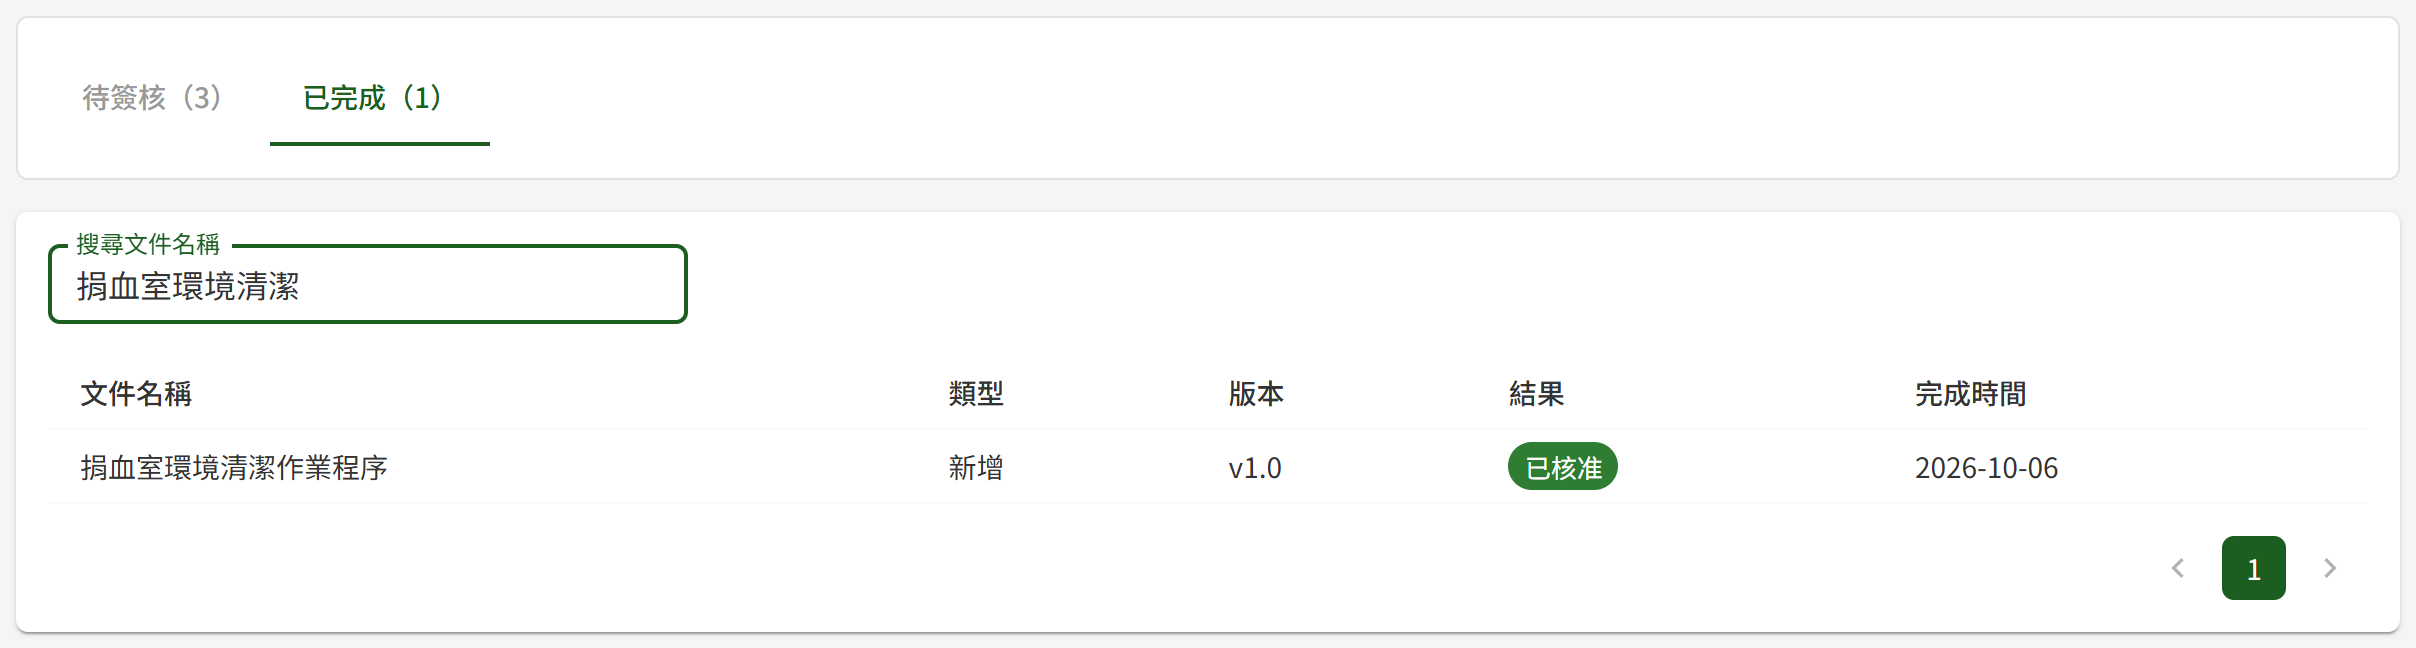
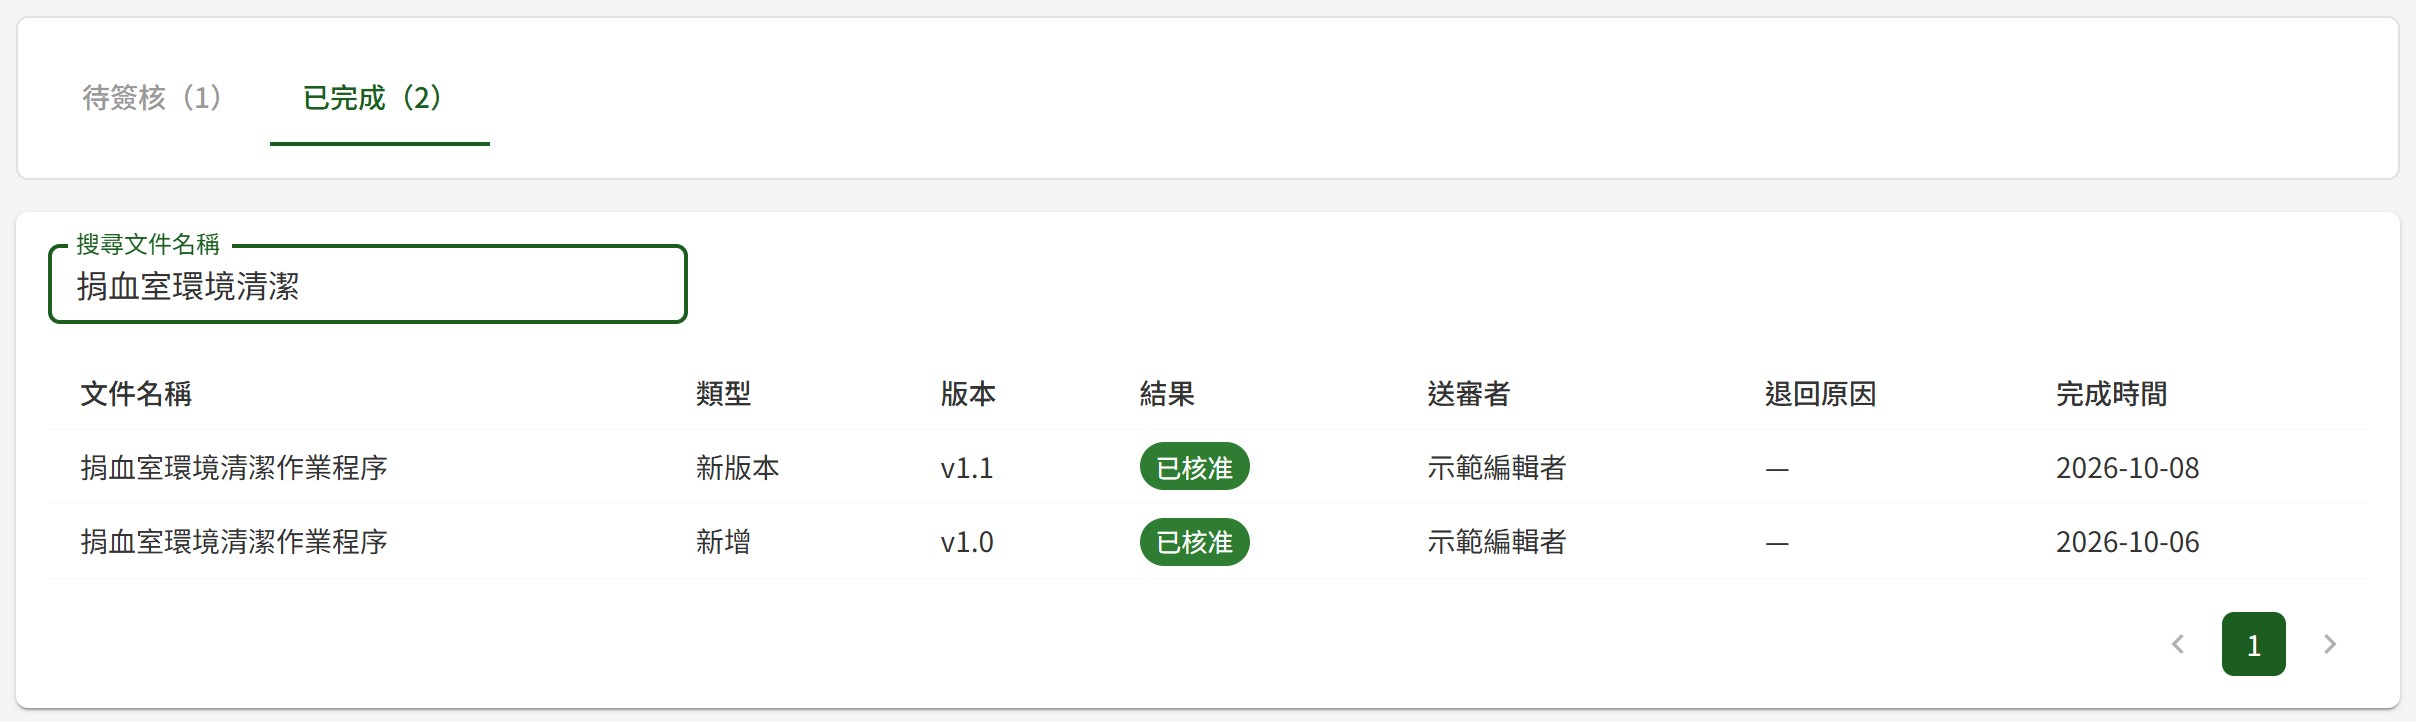
docs(dm): DM 手冊依 10/05 後合併的程式改動修正，重拍 dm02-07、dm03-02
- DM02：發布／退回／廢止通知撰寫者改為 DM04 站內呈現；催辦改以 Email 寄出；「已完成」補送審者與退回原因
- DM04：草稿匣僅編輯者可見；退回原因改為獨立欄位；寄 Email 的通知補簽核催辦
- DM01：關聯作業項目補本系統 EDMS- 開頭代碼說明
- DM03：重拍唯讀頁（提示列與版本歷程說明文字已更新）
- 測試項目同步並重產 DM 測試報告

DM02 核准訊息待 #677、DM04 兩張截圖與廢止退回原因待 #679 合併後再改。

diff --git a/docs/manuals/_tests/DM-文件管理模組.md b/docs/manuals/_tests/DM-文件管理模組.md
@@ -97,7 +97,7 @@
 | 1 | 以審核者甲進入簽核中心，「待簽核」應只列出指定審核者為本人之送審，指派給審核者乙之項目不應出現。 |
 | 2 | 編輯者甲於個人專區撤回一筆送審後，審核者甲重新進入簽核中心，該項目應已自「待簽核」消失，且不列於「已完成」。 |
 | 3 | 管理者將催辦門檻調為 1 天後，送審已滿 24 小時之項目，其停留天數應以紅字加警示符號標示；未滿 24 小時者不標示。 |
-| 4 | 承上，每日催辦排程執行後（或請 IT 手動觸發），審核者甲應收到該項目之催辦通知。 |
+| 4 | 承上，每日催辦排程執行後（或請 IT 手動觸發），審核者甲應收到該項目之催辦 Email，信中含文件名稱與停留天數。 |
 | 5 | 點文件 P 之列，下方應展開簽核明細，顯示可見對象「國防部軍醫局＋護理師」、檢索標籤與首版摘要，按「下載」可取得送審檔案。 |
 | 6 | 點文件 R 之列（新版本），檔案區應並列目前發布版與待審新版，兩者皆可下載。 |
 | 7 | 點文件 T 之列（廢止），變更摘要應顯示申請人填寫之廢止原因，且可「下載廢止附件」。 |
@@ -106,10 +106,10 @@
 | 10 | 承上，閱覽者甲應收到文件 P 之發布通知且於文件庫查得到文件 P；閱覽者乙應收不到通知、亦查不到文件 P。 |
 | 11 | 核准文件 R 之新版本前，文件庫應仍為原發布版；核准後文件庫之發布日期更新為新版本，文件詳細頁之版本歷程中原版本標示為「已被取代」。 |
 | 12 | 對文件 T 按「核准並廢止」並「確認廢止」，文件 T 應自文件庫下架，編輯者甲之「我的文件動態」應出現「已廢止」列（站內呈現，不寄 Email），且不寄出文件發布通知；文件變更歷程查詢應留有其廢止紀錄。 |
-| 13 | 對文件 Q 按「退回」，填寫退回原因後按「確認退回」，該項目應標示為已退回並移至「已完成」，文件 Q 回到編輯者甲個人專區之草稿；編輯者甲之「我的文件動態」應出現「已退回」列（站內呈現，不寄 Email），其下方顯示剛才填寫的退回原因，按展開箭頭可看到全文。 |
+| 13 | 對文件 Q 按「退回」，填寫退回原因後按「確認退回」，該項目應標示為已退回並移至「已完成」，文件 Q 回到編輯者甲個人專區之草稿；編輯者甲之「我的文件動態」應出現「已退回」列（站內呈現，不寄 Email），該列「退回原因」欄顯示剛才填寫的退回原因全文。 |
 | 14 | 退回文件 S 之新版本後，文件庫中文件 S 應仍為原發布版，新版本回到編輯者甲之草稿。 |
 | 15 | 退回文件 U 之廢止申請後，文件 U 應仍為已發布並照常列於文件庫。 |
-| 16 | 切換至「已完成」，應列出本人核准與退回之項目及其結果；於「搜尋文件名稱」輸入文件 P 名稱之一段應篩出該筆，且項目上無核准或退回之操作。 |
+| 16 | 切換至「已完成」，應列出本人核准與退回之項目、結果與送審者；文件 Q 之退回列「退回原因」欄應為所填原因，文件 P 之核准列為「—」；於「搜尋文件名稱」輸入文件 P 名稱之一段應篩出該筆，且項目上無核准或退回之操作。 |
 | 17 | 審核者甲開啟某送審之簽核明細後，編輯者甲於另一分頁撤回該送審，審核者甲再按「核准並發布」應被擋下並提示已被撰寫者撤回，該項目自清單移除。 |
 | 18 | 兩份同作業項目之手冊送審中，核准其中一份後再核准另一份，應被擋下並提示該作業項目已有已發布手冊（未擋下將出現兩份手冊，依作業項目查詢結果不再唯一）。 |
 
@@ -152,7 +152,7 @@
 |---|---|
 | 編輯者甲 | 具編輯者角色、不兼審核者，下列文件皆由此帳號建立與送審 |
 | 雙角色帳號 | 同時具編輯者與審核者角色之帳號，近 30 天內本人送審過、也被指派審核過至少各一筆（第 1 項） |
-| 審核者甲、審核者乙 | 具審核者角色。審核者乙用於帳號停用（第 4 項）與改選審核者（第 8 項） |
+| 審核者甲、審核者乙 | 僅具審核者角色（不兼編輯者）。審核者甲用於第 1-1 項；審核者乙用於帳號停用（第 4 項）與改選審核者（第 8 項） |
 | 管理者 | 將催辦門檻調為 1 天（第 3 項，測完請改回預設 7 天）；於 DP01 使用者管理停用審核者乙，第 4 項測完即重新啟用 |
 | 文件 A | 近 30 天內送審、經審核者甲核准發布（第 2 項） |
 | 文件 B | 指定審核者乙之送審，未處理（第 4 項） |
@@ -168,6 +168,7 @@
 | 項次 | 測試內容 |
 |---|---|
 | 1 | 以雙角色帳號進入個人專區，「我的文件動態」應同時出現「撰寫者視角（近 30 天）」與「審核者視角（近 30 天）」兩區。 |
+| 1-1 | 以審核者甲進入個人專區，應只有「我的文件動態」一個分頁，不出現「草稿匣」。 |
 | 2 | 以編輯者甲進入個人專區，文件 A 應呈現「送審」與「核准發布」兩列，時間分別為送審與核准時間，清單由新到舊排列。 |
 | 3 | 管理者將催辦門檻調為 1 天後，文件 C 於編輯者甲之撰寫者視角應標示「逾期未審」，於審核者甲之審核者視角應標示「催辦中」。 |
 | 4 | 管理者停用審核者乙後，編輯者甲之撰寫者視角中文件 B 的「指定審核者」欄下方應以紅字標示「審核者帳號已停用」。 |

diff --git a/docs/manuals/dm/DM02-簽核中心.md b/docs/manuals/dm/DM02-簽核中心.md
@@ -28,7 +28,7 @@
 
 畫面分為「待簽核」與「已完成」兩個分頁，分頁名稱後的括號為各自的筆數。進入時停在「待簽核」，列出待本人處理的項目；每列文件名稱下方標示送審類型（新增、新版本、廢止）。
 
-「停留天數」自送審時間起算，每滿 24 小時計 1 天，未滿 24 小時為 0 天。停留天數**達催辦門檻**時，該欄以紅字加警示符號標示，系統並每日向本人發出催辦通知，直到項目處理完畢或被撤回為止。催辦門檻由管理者於平台後台設定（見 DP03 系統參數與清單維護），預設為 7 天。
+「停留天數」自送審時間起算，每滿 24 小時計 1 天，未滿 24 小時為 0 天。停留天數**達催辦門檻**時，該欄以紅字加警示符號標示，系統並每日以 Email 向本人寄出催辦信，直到項目處理完畢或被撤回為止。催辦門檻由管理者於平台後台設定（見 DP03 系統參數與清單維護），預設為 7 天。
 
 ![進入簽核中心停在「待簽核」，列出指派給本人的送審，文件名稱下方標示送審類型](../_images/dm/dm02-01.png)
 
@@ -72,7 +72,8 @@
 
 - 文件轉為已發布，出現於文件庫；新版本則取代原發布版，原發布版於版本歷程中標示為已被取代
 - 本次送審的可見對象與檢索標籤生效
-- 以 Email 寄出文件發布通知，收件者為撰寫者，以及發布當下可見對象相符的閱覽者；可見對象為「全單位＋全體」時即為全部閱覽者。收件名單於核准當下決定
+- 以 Email 寄出文件發布通知給發布當下可見對象相符的閱覽者；可見對象為「全單位＋全體」時即為全部閱覽者。收件名單於核准當下決定
+- 撰寫者於 DM04 個人專區「我的文件動態」看到「核准發布」
 - 寫入文件變更歷程，供管理者於 DM05 文件變更歷程查詢
 
 該項目隨即自「待簽核」移至「已完成」。
@@ -84,7 +85,7 @@
 1. 於簽核明細按「核准並廢止」
 2. 確認視窗按「確認廢止」
 
-文件隨即轉為已廢止並自文件庫下架，系統通知撰寫者並寫入文件變更歷程。廢止後的文件由管理者於 DM03 已廢止文件查詢查閱，歷史版本永久保留。
+文件隨即轉為已廢止並自文件庫下架，撰寫者於 DM04 個人專區「我的文件動態」看到「已廢止」，並寫入文件變更歷程。廢止後的文件由管理者於 DM03 已廢止文件查詢查閱，歷史版本永久保留。
 
 > 重要：廢止核准後立即生效且不可回復，按「確認廢止」前請再次確認廢止對象。
 
@@ -98,13 +99,13 @@
 
 ![按「退回」後於視窗填寫退回原因，按「確認退回」送出](../_images/dm/dm02-06.png)
 
-系統通知撰寫者，項目移至「已完成」並標示為已退回。退回後文件的去向依送審類型而定，見〈使用情境〉之表。撰寫者修正後可重新送審，屆時為新的一筆送審項目。
+項目移至「已完成」並標示為已退回；撰寫者於 DM04 個人專區「我的文件動態」看到「已退回」，新增與新版本的退回並同時看到退回原因。退回後文件的去向依送審類型而定，見〈使用情境〉之表。撰寫者修正後可重新送審，屆時為新的一筆送審項目。
 
 ### 查看已完成的項目
 
-切換至「已完成」分頁，列出本人處理過的項目及其結果（已核准或已退回）與完成時間。可於「搜尋文件名稱」輸入名稱的一段文字篩選。
+切換至「已完成」分頁，列出本人處理過的項目、結果（已核准或已退回）、送審者、退回原因與完成時間。「退回原因」於新增與新版本被退回的項目顯示所填原因，其他項目顯示「—」。可於「搜尋文件名稱」輸入名稱的一段文字篩選。
 
-![切換至「已完成」並輸入文件名稱的一段文字，列出本人處理過的項目及其結果](../_images/dm/dm02-07.png)
+![切換至「已完成」並輸入文件名稱的一段文字，列出本人處理過的項目、結果與送審者；核准的項目「退回原因」顯示「—」](../_images/dm/dm02-07.png)
 
 已完成的項目僅供回顧。
 
@@ -125,7 +126,7 @@
 |---|---|
 | 「已核准並發布，已通知撰寫者」 | 文件已發布，發布通知已排入寄送 |
 | 「已核准廢止，文件已下架並通知撰寫者」 | 文件已廢止並自文件庫下架 |
-| 「已退回並通知撰寫者」 | 項目已退回，撰寫者會收到退回通知 |
+| 「已退回並通知撰寫者」 | 項目已退回，撰寫者於個人專區看到退回結果 |
 
 ### 其他情況
 

diff --git a/docs/manuals/dm/DM04-個人專區.md b/docs/manuals/dm/DM04-個人專區.md
@@ -4,12 +4,12 @@
 
 ### 使用情境
 
-本作業供具**編輯者或審核者**角色者集中處理本人的文件作業，分為「我的文件動態」與「草稿匣」兩個分頁。兩種角色可做的事如下：
+本作業供具**編輯者或審核者**角色者集中處理本人的文件作業，分為「我的文件動態」與「草稿匣」兩個分頁，「草稿匣」僅編輯者可見。兩種角色可做的事如下：
 
 | 角色 | 我的文件動態 | 草稿匣 |
 |---|---|---|
 | 編輯者 | 檢視本人送審的歷程；可撤回送審中的項目 | 續編或刪除本人的草稿 |
-| 審核者 | 檢視指派給本人的送審歷程；可前往簽核中心處理 | — |
+| 審核者 | 檢視指派給本人的送審歷程；可前往簽核中心處理 | 不顯示此分頁 |
 
 同時具兩種角色者，兩種歷程都會列出。
 
@@ -23,7 +23,7 @@
 
 ### 畫面與前置設定
 
-畫面自上而下為標題列、兩個分頁，其下為該分頁的清單。進入時預設停在「我的文件動態」。
+畫面自上而下為標題列、分頁（編輯者為兩個；僅具審核者角色者只有「我的文件動態」），其下為該分頁的清單。進入時預設停在「我的文件動態」。
 
 ### 我的文件動態
 
@@ -40,19 +40,17 @@
 | 狀態 | 代表什麼 |
 |---|---|
 | 送審中、廢止待簽核（撰寫者）<br>待處理、待處理（廢止）（審核者） | 送審尚未處理 |
-| 逾期未審、廢止逾期未審（撰寫者）<br>催辦中（審核者） | 送審停留天數已達催辦門檻，系統每日向審核者發出催辦通知。催辦門檻由管理者於 DP03 系統參數與清單維護設定，預設為 7 天 |
+| 逾期未審、廢止逾期未審（撰寫者）<br>催辦中（審核者） | 送審停留天數已達催辦門檻，系統每日以 Email 向審核者寄出催辦信。催辦門檻由管理者於 DP03 系統參數與清單維護設定，預設為 7 天 |
 | 送審、發起廢止 | 已結束的那次送審的起點列，結果見同一份文件時間較新的那一列 |
 | 核准發布、已廢止、已退回、已撤回（撰寫者）<br>已核准、已核准廢止、已退回、已被撤回（審核者） | 該次送審的結果 |
 
 **退回原因**
 
-狀態為「已退回」的列，狀態下方以灰字顯示審核者於 DM02 簽核中心填寫的退回原因。原因較長時僅顯示第一行，按狀態右側的展開箭頭可另起一列看到完整內容，再按一次收合；展開不影響其他列的高度。
-
-同一次送審的「送審」起點列不顯示退回原因，原因只掛在結果列上。
+「退回原因」欄顯示審核者於 DM02 簽核中心填寫的退回原因全文，於新增與新版本被退回的結果列顯示；其他列（含同一次送審的「送審」起點列、廢止申請的退回列）顯示「—」。
 
 **通知送達何處**
 
-送審、退回、廢止申請送審、廢止核准、廢止退回這幾類通知**僅於系統內呈現、不寄送 Email**：撰寫者於本頁「我的文件動態」、審核者於本頁審核者視角與 DM02 簽核中心即可看到，毋須查收信箱。寄送 Email 的只有文件發布通知（寄給可見對象相符的閱覽者）與未讀催辦、閱讀統計這幾類。
+送審、退回、廢止申請送審、廢止核准、廢止退回這幾類通知**僅於系統內呈現、不寄送 Email**：撰寫者於本頁「我的文件動態」、審核者於本頁審核者視角與 DM02 簽核中心即可看到，毋須查收信箱。寄送 Email 的有文件發布通知（寄給可見對象相符的閱覽者）、簽核催辦（寄給逾催辦門檻未處理的審核者）、未讀提醒與閱讀統計週報。
 
 **指定審核者的帳號已停用時**
 

diff --git a/docs/manuals/dm/DM01-文件庫.md b/docs/manuals/dm/DM01-文件庫.md
@@ -70,7 +70,7 @@
 ### 依作業項目查找系統操作手冊
 
 1. 於「分類」選「系統操作手冊」，下方隨即出現「關聯作業項目（func_name）」下拉
-2. 於該下拉選取作業項目，選項以「代碼 — 作業名稱」呈現（例：BC01 — 捐血登錄）
+2. 於該下拉選取作業項目，選項以「代碼 — 作業名稱」呈現（例：BC01 — 捐血登錄）。本系統（教育訓練文件管理系統）自身的作業項目，代碼以 EDMS- 開頭（例：EDMS-DM01 — 文件庫）
 3. 結果列出該作業項目的系統操作手冊
 
 ![分類選「系統操作手冊」、作業項目選「BC01 — 捐血登錄」後，結果只列出該作業項目的手冊，文件名稱下方標示所對應的作業項目](../_images/dm/dm01-03.png)
